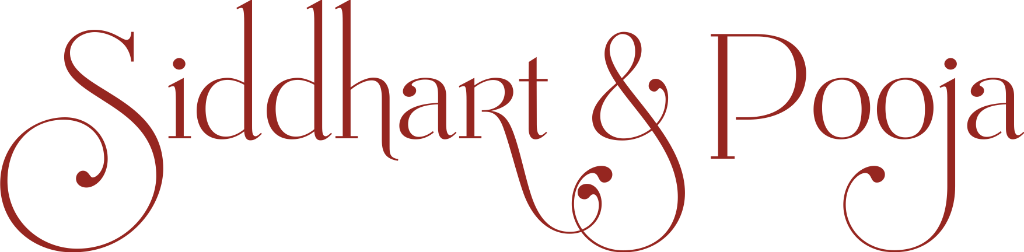
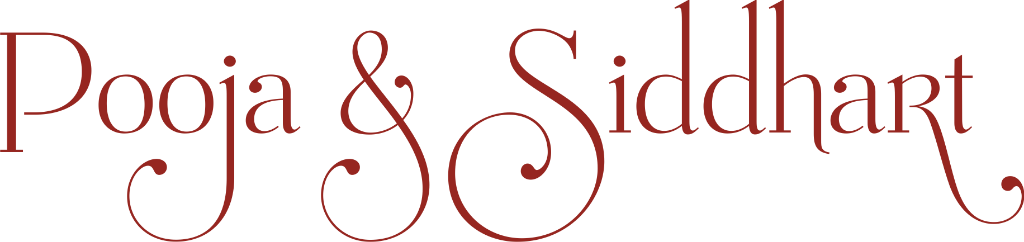
Update all text and graphics to Pooja & Siddhart

diff --git a/index.html b/index.html
@@ -4,8 +4,8 @@
     <meta charset="UTF-8" />
     <link rel="icon" type="image/svg+xml" href="/favicon.svg" />
     <meta name="viewport" content="width=device-width, initial-scale=1.0" />
-    <title>Siddhart &amp; Pooja — Wedding Invitation | 4–5 December 2026</title>
-    <meta name="description" content="We are so happy to announce that Siddhart &amp; Pooja are tying the knot. Mark your calendar for 4–5 December 2026." />
+    <title>Pooja &amp; Siddhart — Wedding Invitation | 4–5 December 2026</title>
+    <meta name="description" content="We are so happy to announce that Pooja &amp; Siddhrth are tying the knot. Mark your calendar for 4–5 December 2026." />
     
     <!-- Google Fonts -->
     <link rel="preconnect" href="https://fonts.googleapis.com">

diff --git a/src/components/RSVPModal.jsx b/src/components/RSVPModal.jsx
@@ -142,7 +142,7 @@ export default function RSVPModal({ isOpen, onClose }) {
             </p>
             <div className="mt-6 pt-4 border-t border-[#d4af37]/30 text-xs font-serif-royal text-[#ebd79a]/80">
               With warm regards,<br/>
-              <span className="font-bold text-[#fff0b3] text-sm">Siddhart &amp; Pooja</span>
+              <span className="font-bold text-[#fff0b3] text-sm">Pooja &amp; Siddhart</span>
             </div>
             <button
               onClick={handleReset}

diff --git a/src/components/AnnouncementSection.jsx b/src/components/AnnouncementSection.jsx
@@ -65,7 +65,7 @@ export default function AnnouncementSection() {
       >
         <img 
           src="/assets/padam/414961bb-c43a-4b08-bdfd-4a95e2a4a7ba.png" 
-          alt="We are so happy to announce that Siddhart & Pooja are tying the knot." 
+          alt="We are so happy to announce that Pooja & Siddhrth are tying the knot." 
           className="w-full h-auto object-contain filter drop-shadow-sm"
         />
       </motion.div>

diff --git a/src/App.jsx b/src/App.jsx
@@ -134,7 +134,7 @@ export default function App() {
                 <div className="w-full max-w-[260px] sm:max-w-[320px] my-1">
                   <img 
                     src="/assets/padam/siddhart-pooja.png" 
-                    alt="Siddhart & Pooja" 
+                    alt="Pooja & Siddhart" 
                     className="w-full h-auto object-contain filter drop-shadow-sm mx-auto"
                   />
                 </div>
